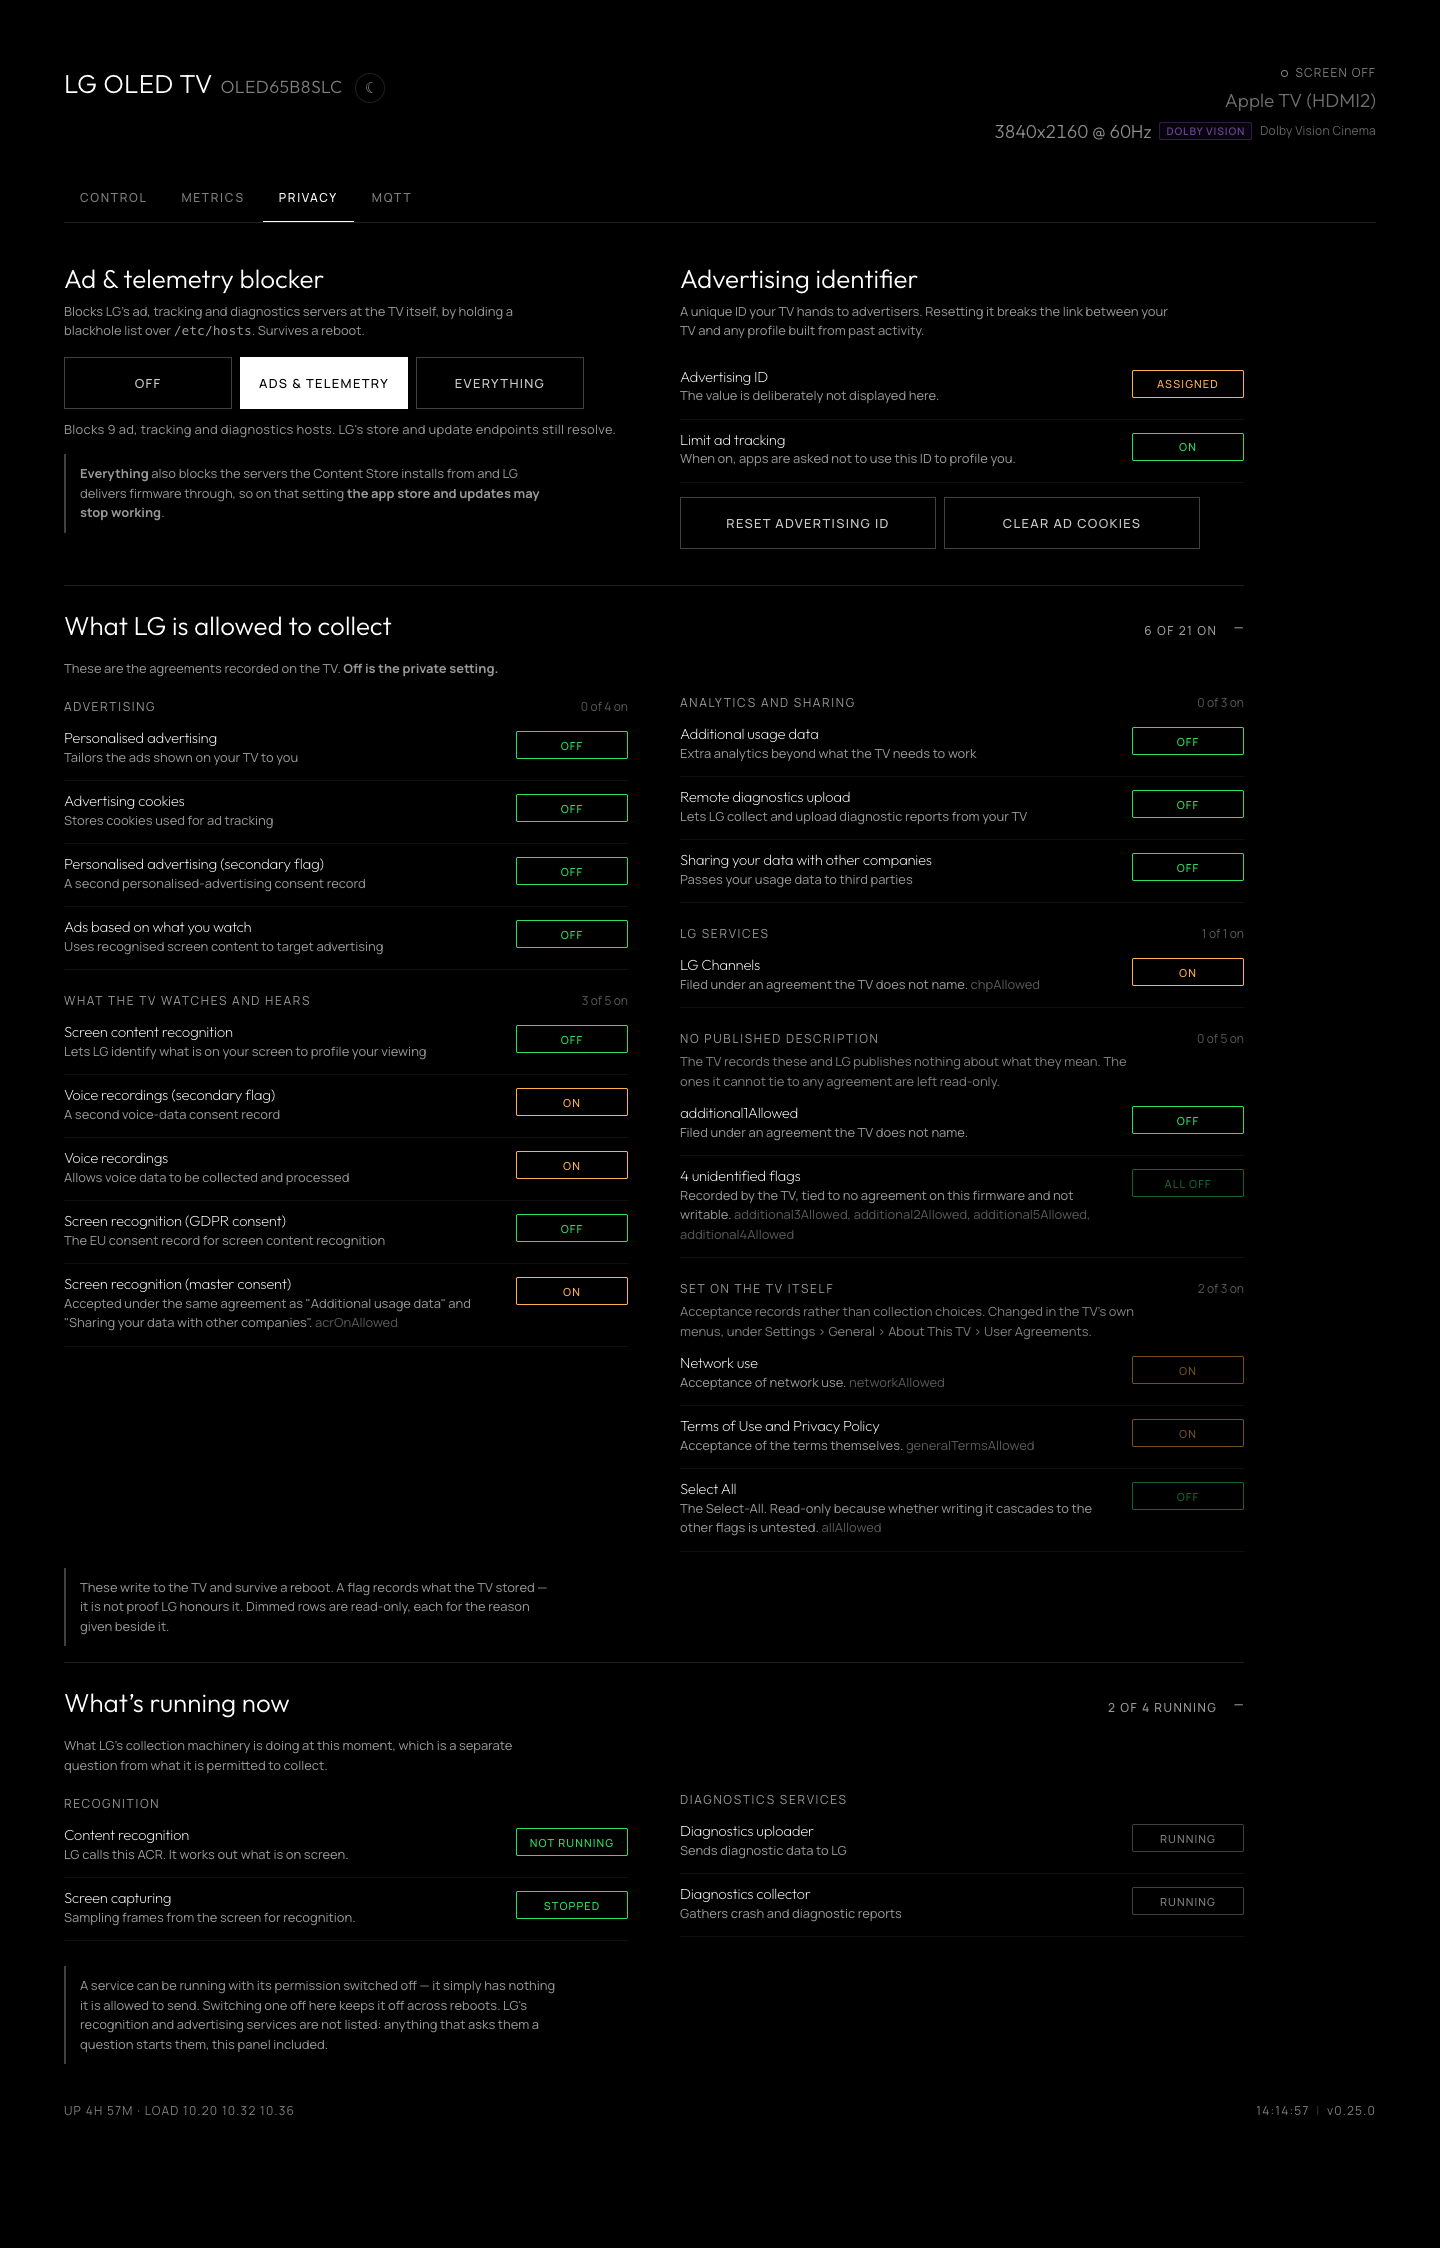
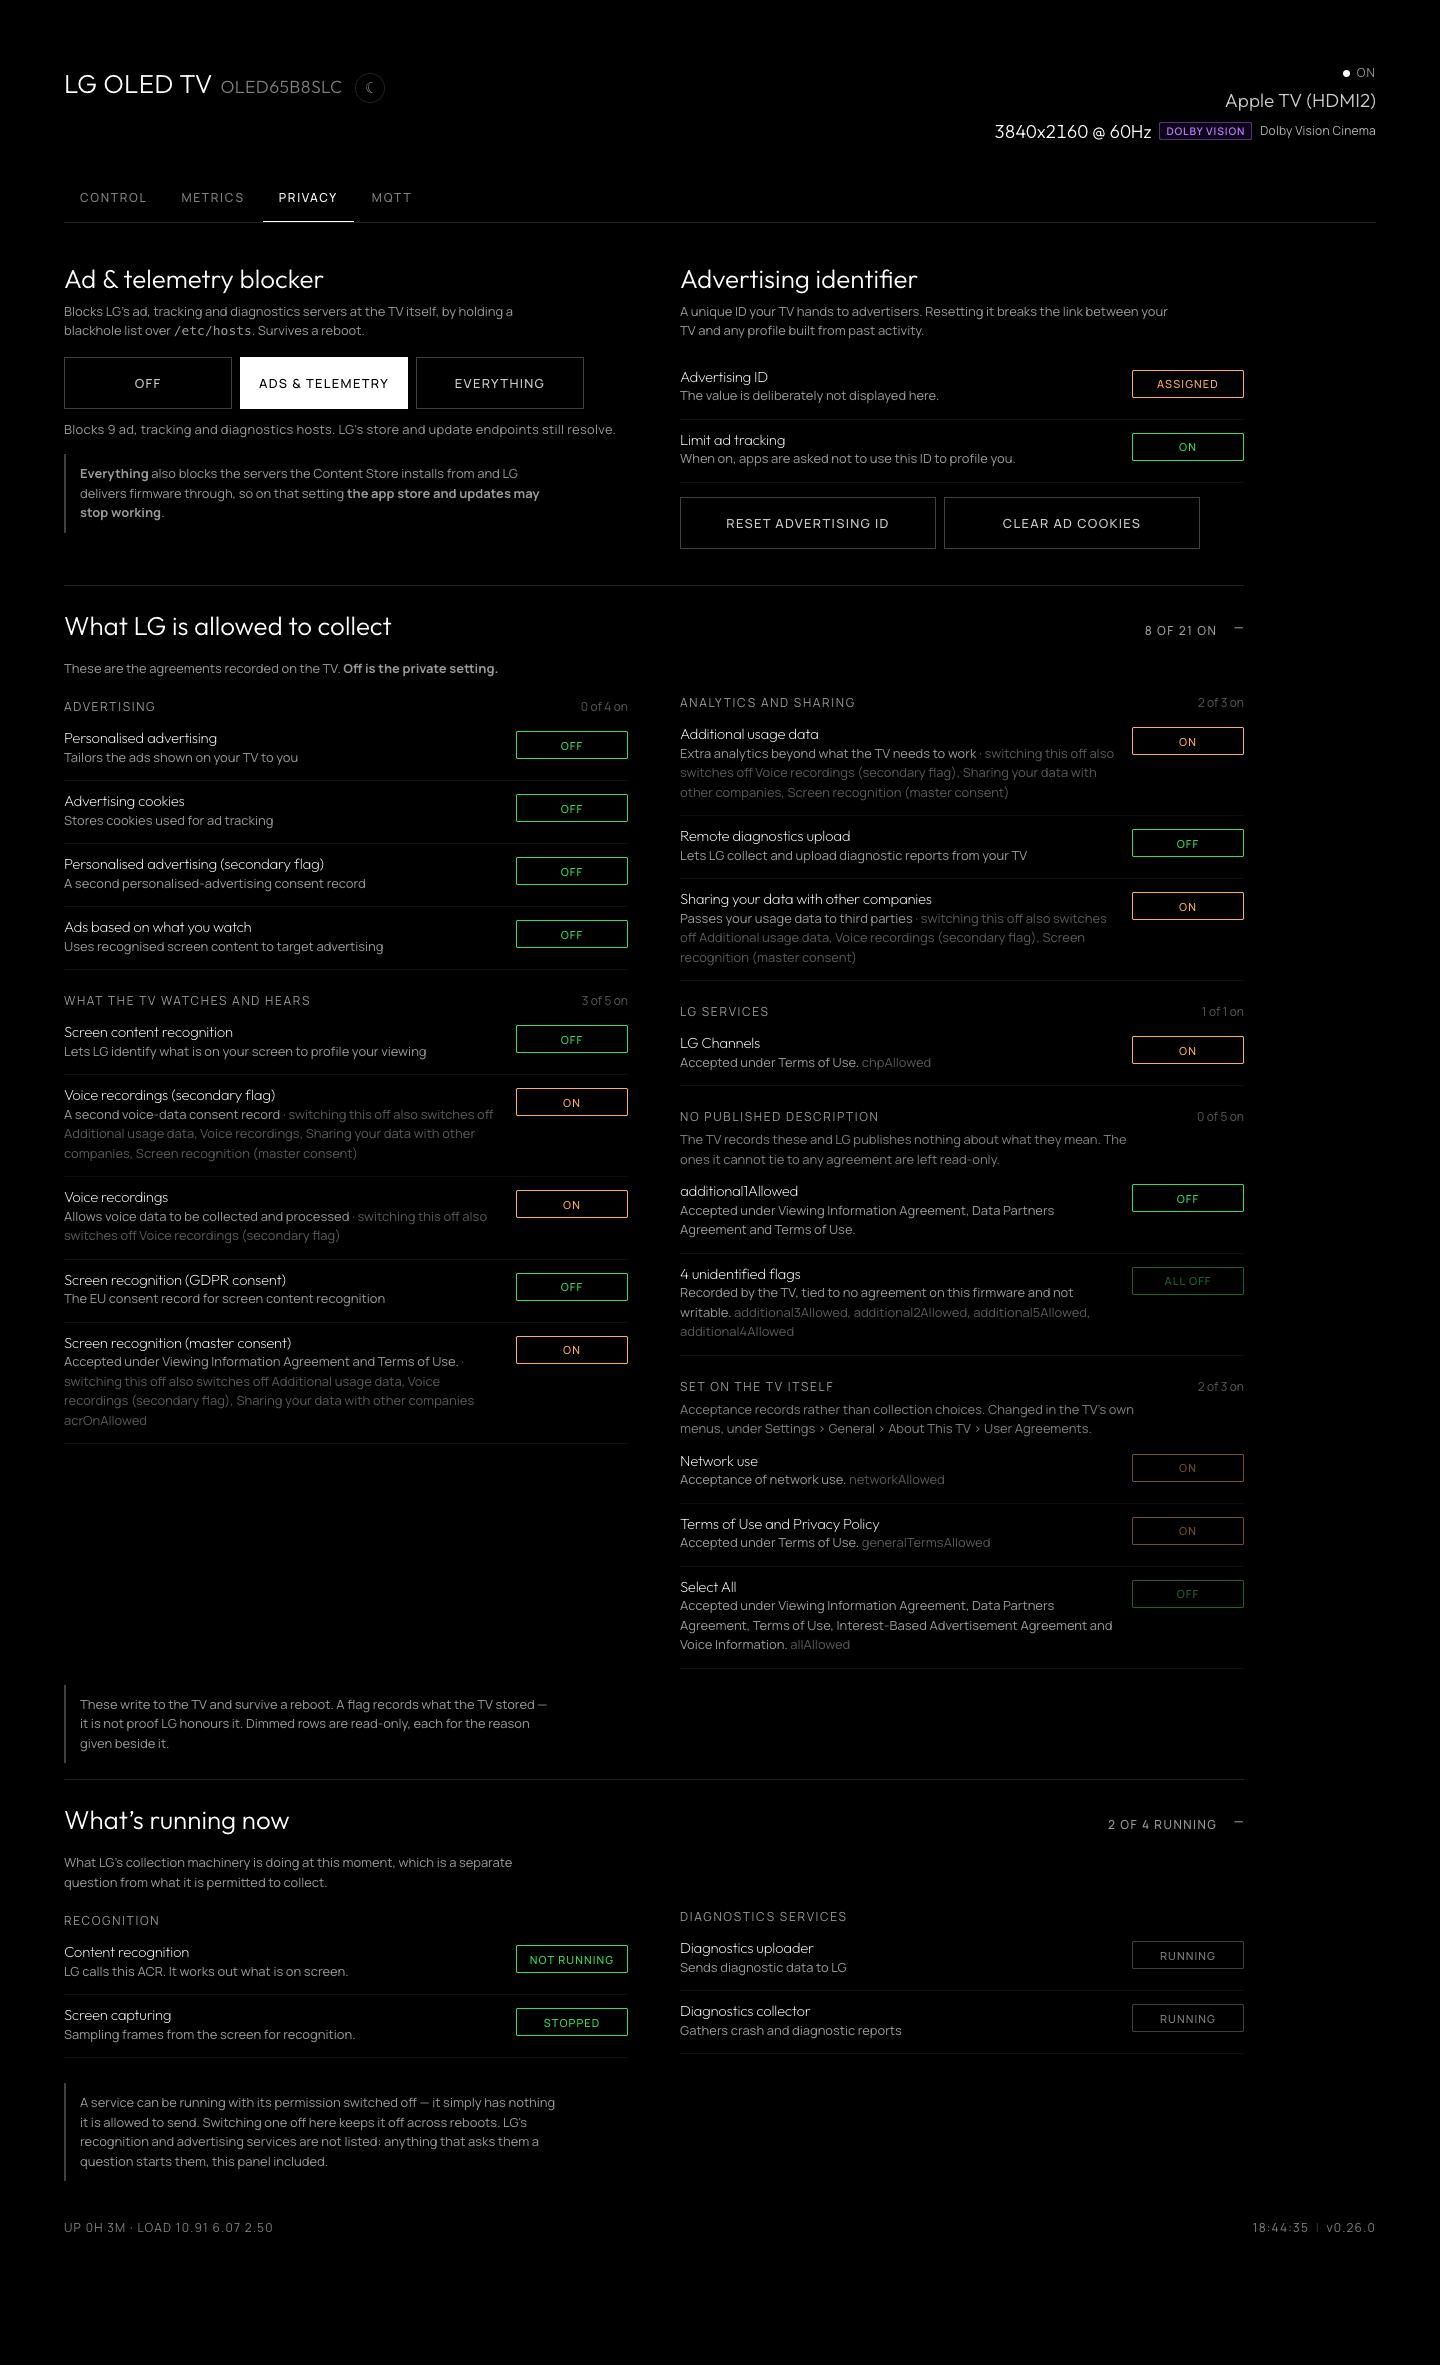
Move the agreement documents with the flag (#71)
* Move the agreement documents with the flag

eulaStatus is the output, not the record. A C8 on webOS 4.4.0 rebuilds every
flag from the accepted documents at boot, so a flag written on its own reverts
there; a B8 on 4.4.3 does not rebuild, which is why writing flags alone looked
like it worked and left the two records disagreeing - on this B8, ten of twelve
mapped flags matched their documents and the two that did not were the two the
panel had written. Diagnosed in #61.

A write now moves both. Turning a flag on accepts the documents it needs;
turning it off withdraws those no flag that stays on requires, and any flag
that needed one goes off with it - which is what the rebuilding firmware does
at boot anyway. Nothing is ever switched on as a side effect: a set whose flags
were written before this existed has documents saying yes under flags saying
no, and reconciling upwards would turn collection back on behind the reader.

A document needed by a flag that cannot be switched off is never withdrawn, so
Terms of Use survives however the rest are set.

The same record names the documents, which is the only place on the set that
does. "Filed under an agreement the TV does not name" now reads "Accepted under
the Viewing Information Agreement and Terms of Use", and the rows that move
together say so before they are clicked.

* Refresh the privacy screenshot, and bump to 0.26.0

---------

diff --git a/server/tvweb.js b/server/tvweb.js
@@ -27,7 +27,7 @@ var zlib = require('zlib');
  * a link to /releases/tag/v<version>, so a value with no tag behind it gives a
  * 404 rather than a wrong page.
  */
-var TVWEB_VERSION = '0.25.0';
+var TVWEB_VERSION = '0.26.0';
 
 // ---------------------------------------------------------------- config
 var CONFIG = {
@@ -1875,6 +1875,137 @@ function loadConsentGroups() {
   return consentGroups;
 }
 
+/*
+ * The agreement documents behind the flags, read from the settings service.
+ *
+ * eulaStatus is the output: a C8 on 4.4.0 rebuilds every flag from the accepted
+ * documents at boot, so a flag written on its own reverts there. A B8 on 4.4.3
+ * does not rebuild, which is why writing flags alone appeared to work and left
+ * the two records disagreeing. Writing both keeps them saying the same thing on
+ * either firmware. Reported in #61.
+ *
+ * It also carries the titles - "S_ADG" is "Viewing Information Agreement" -
+ * which is the only place on the set that names them. The file that caches this
+ * does not exist on webOS 9, so it is read from the service.
+ */
+function readConsentDocs(cb) {
+  luna('com.webos.settingsservice/getSystemSettings', { keys: ['eulaInfoNetwork'] }, function (r) {
+    var eln = r && r.settings && r.settings.eulaInfoNetwork;
+    cb(eln && Array.isArray(eln.eulaList) ? eln : null);
+  });
+}
+
+function acceptedSet(eln) {
+  var out = {};
+  for (var i = 0; i < eln.eulaList.length; i++) {
+    if (eln.eulaList[i].accepted) out[eln.eulaList[i].id] = true;
+  }
+  return out;
+}
+
+function docsSatisfied(need, accepted) {
+  for (var i = 0; i < need.length; i++) if (!accepted[need[i]]) return false;
+  return need.length > 0;
+}
+
+/*
+ * What the TV would hold after this change. The documents move first and every
+ * mapped flag is then derived from them, which is exactly what the rebuilding
+ * firmware does at boot - done here so both firmwares agree immediately.
+ *
+ * A document needed by a flag that cannot be switched off is never withdrawn:
+ * Terms of Use sits under nearly every group, and dropping it would withdraw
+ * the lot.
+ */
+function planConsent(key, on, flags, eln) {
+  var groups = loadConsentGroups();
+  var accepted = acceptedSet(eln);
+  var need = groups[key] || [];
+  var i, k;
+
+  if (on) {
+    for (i = 0; i < need.length; i++) accepted[need[i]] = true;
+  } else {
+    var protectedDocs = {};
+    for (k in groups) {
+      if (!groups.hasOwnProperty(k)) continue;
+      if (!CONSENT_LOCKED[k] || !flags[k]) continue;
+      for (i = 0; i < groups[k].length; i++) protectedDocs[groups[k][i]] = true;
+    }
+    for (i = 0; i < need.length; i++) {
+      if (!protectedDocs[need[i]]) delete accepted[need[i]];
+    }
+  }
+
+  var nextFlags = {}, changed = [];
+  for (k in flags) if (flags.hasOwnProperty(k)) nextFlags[k] = flags[k];
+  for (k in groups) {
+    if (!groups.hasOwnProperty(k) || !nextFlags.hasOwnProperty(k)) continue;
+    if (CONSENT_LOCKED[k]) continue;
+    /*
+     * Downward only. A flag whose agreement has just been withdrawn has to go
+     * off with it, but nothing is ever switched on as a side effect: a set
+     * whose flags were written directly before this existed has documents
+     * saying yes under flags saying no, and reconciling that upwards would
+     * turn collection back on behind the reader.
+     */
+    if (nextFlags[k] && !docsSatisfied(groups[k], accepted)) {
+      nextFlags[k] = false;
+      changed.push(k);
+    }
+  }
+  if (nextFlags[key] !== on) { nextFlags[key] = on; if (changed.indexOf(key) === -1) changed.push(key); }
+
+  var nextDocs = JSON.parse(JSON.stringify(eln));
+  for (i = 0; i < nextDocs.eulaList.length; i++) {
+    nextDocs.eulaList[i].accepted = !!accepted[nextDocs.eulaList[i].id];
+  }
+  return { flags: nextFlags, docs: nextDocs, changed: changed };
+}
+
+/*
+ * Name the documents a row depends on, and the rows that move with it. A flag
+ * cannot be off while an agreement it shares is accepted, so the panel says so
+ * before the click rather than surprising the reader afterwards.
+ */
+function annotateConsent(consent, eln) {
+  if (!consent || !eln) return;
+  var titles = {}, i;
+  for (i = 0; i < eln.eulaList.length; i++) {
+    if (eln.eulaList[i].title) titles[eln.eulaList[i].id] = eln.eulaList[i].title;
+  }
+  var groups = loadConsentGroups();
+  var rows = (consent.known || []).concat(consent.other || []);
+  var flags = {}, byKey = {};
+  for (i = 0; i < rows.length; i++) { flags[rows[i].key] = rows[i].enabled; byKey[rows[i].key] = rows[i]; }
+
+  for (i = 0; i < rows.length; i++) {
+    var row = rows[i], need = groups[row.key];
+    if (!need) continue;
+    var names = [];
+    for (var j = 0; j < need.length; j++) if (titles[need[j]]) names.push(titles[need[j]]);
+    if (names.length) {
+      row.agreements = names;
+      // Now that the documents can be named, an undescribed flag can say what
+      // it is filed under instead of that the TV would not say.
+      if (!CONSENT_LABELS[row.key]) {
+        row.detail = 'Accepted under ' + (names.length > 1
+          ? names.slice(0, -1).join(', ') + ' and ' + names[names.length - 1]
+          : names[0]) + '.';
+      }
+    }
+    if (!row.settable || !row.enabled) continue;
+    var plan = planConsent(row.key, false, flags, eln);
+    var also = [];
+    for (var c = 0; c < plan.changed.length; c++) {
+      var k = plan.changed[c];
+      if (k === row.key || !byKey[k]) continue;
+      also.push(byKey[k].label || k);
+    }
+    if (also.length) row.sharesWith = also;
+  }
+}
+
 function consentSettable(key) {
   if (CONSENT_LOCKED[key]) return false;
   if (CONSENT_LABELS[key]) return true;
@@ -2164,6 +2295,12 @@ function collectPrivacy(cb) {
    */
   runningDaemons(function (daemons) {
     out.daemons = daemons;
+    // Titles and the sharing map come from the same record the writes move, so
+    // the rest of the payload waits on it rather than racing it.
+    lunaCached('com.webos.settingsservice/getSystemSettings', { keys: ['eulaInfoNetwork'] }, 60000,
+               function (elnRes) {
+    var eln = elnRes && elnRes.settings && elnRes.settings.eulaInfoNetwork;
+    if (eln && Array.isArray(eln.eulaList)) annotateConsent(out.consent, eln);
     luna('com.webos.service.acr/getACRSolutionStatus', {}, function (acr) {
       // `false` here means the recognition engine is not running at all.
       out.acr = {
@@ -2211,6 +2348,7 @@ function collectPrivacy(cb) {
           cb(out);
         });
       });
+    });
     });
   });
 }
@@ -2400,54 +2538,39 @@ function doControl(action, value, cb) {
         var cur = r && r.settings && r.settings.eulaStatus;
         if (!cur || typeof cur !== 'object') return cb({ ok: false, error: 'could not read the consent flags' });
         if (!cur.hasOwnProperty(ckey)) return cb({ ok: false, error: 'no such consent flag: ' + ckey });
-        if (cur[ckey] === cOn) {
-          cachedPrivacy = null;
-          return cb({ ok: true, key: ckey, enabled: cOn, changed: false });
-        }
-        var next = {};
-        for (var ek in cur) if (cur.hasOwnProperty(ek)) next[ek] = cur[ek];
-        next[ckey] = cOn;
-        luna('com.webos.settingsservice/setSystemSettings', { settings: { eulaStatus: next } }, function (w) {
-          cachedPrivacy = null;
-          if (!(w && w.returnValue)) {
-            console.log('consent: ' + ckey + ' ' + cur[ckey] + ' -> ' + cOn + ' (refused)');
-            return cb({ ok: false, error: (w && w.errorText) || 'the TV refused the change' });
-          }
-          /*
-           * Read it back. returnValue means the service took the call, not that
-           * it stored anything - writing /var/luna/preferences/eula directly
-           * looks exactly as successful and reverts at boot. On firmware this
-           * has never run against, that difference is the whole question, and a
-           * toggle that reports success without checking is the failure this
-           * panel exists to avoid.
-           */
-          luna('com.webos.settingsservice/getSystemSettings', { keys: ['eulaStatus'] }, function (v) {
-            var now = v && v.settings && v.settings.eulaStatus;
-            var applied = !!(now && now[ckey] === cOn);
-            // Consent records: without a line here there is no telling
-            // afterwards whether a change came from the panel or the TV.
-            console.log('consent: ' + ckey + ' ' + cur[ckey] + ' -> ' + cOn +
-                        (applied ? '' : ' (accepted but not applied)'));
+
+        readConsentDocs(function (eln) {
+          if (!eln) return cb({ ok: false, error: 'could not read the agreement documents' });
+          var plan = planConsent(ckey, cOn, cur, eln);
+          if (!plan.changed.length) {
             cachedPrivacy = null;
-            cb(applied
-              ? { ok: true, key: ckey, enabled: cOn, changed: true }
-              : { ok: false, error: 'the TV accepted the change without applying it' });
+            return cb({ ok: true, key: ckey, enabled: cOn, changed: false });
+          }
+          luna('com.webos.settingsservice/setSystemSettings',
+               { settings: { eulaInfoNetwork: plan.docs, eulaStatus: plan.flags } }, function (w) {
+            cachedPrivacy = null;
+            if (!(w && w.returnValue)) {
+              console.log('consent: ' + ckey + ' -> ' + cOn + ' (refused)');
+              return cb({ ok: false, error: (w && w.errorText) || 'the TV refused the change' });
+            }
+            /*
+             * Read back. returnValue means the service took the call, not that
+             * it stored anything - writing the file directly looks exactly as
+             * successful and reverts at boot.
+             */
+            luna('com.webos.settingsservice/getSystemSettings', { keys: ['eulaStatus'] }, function (v) {
+              var now = v && v.settings && v.settings.eulaStatus;
+              var applied = !!(now && now[ckey] === cOn);
+              console.log('consent: ' + ckey + ' ' + cur[ckey] + ' -> ' + cOn +
+                          (plan.changed.length > 1 ? ' (with ' + (plan.changed.length - 1) + ' sharing the agreement)' : '') +
+                          (applied ? '' : ' (accepted but not applied)'));
+              cb(applied
+                ? { ok: true, key: ckey, enabled: cOn, changed: true, alsoChanged: plan.changed.length - 1 }
+                : { ok: false, error: 'the TV accepted the change without applying it' });
+            });
           });
         });
       });
-
-    /*
-     * Hold an LG daemon down, or let it back up. Restricted to the two upstart
-     * supervises: this is an initctl target arriving over HTTP, and the
-     * bus-activated services cannot be held down anyway.
-     */
-    case 'service':
-      var svcName = (value && value.name) ? String(value.name) : '';
-      var svcOn = !!(value && (value.enabled === true || value.enabled === 'true'));
-      if (!SERVICE_CONTROLLABLE[svcName]) {
-        return cb({ ok: false, error: svcName ? svcName + ' is not controllable' : 'no service named' });
-      }
-      return setServiceEnabled(svcName, svcOn, cb);
 
     case 'clearAdCookies':
       return luna('com.webos.service.admanager/inactivateCookies', {}, function (r) {

diff --git a/server/assets/ui.html b/server/assets/ui.html
@@ -1699,12 +1699,18 @@ async function loadPrivacy() {
     const cw = !!d.consentWritable;
     // Labelled rows show their label; the rest are named by their raw key,
     // which is all the name they have.
-    const rows = c.known.map(f => ({ ...f, name: f.label, detail: esc(f.detail || '') }))
+    // A flag cannot be off while an agreement it shares stays accepted, so the
+    // rows it takes with it are named before the click, not after.
+    const shared = f => f.sharesWith && f.sharesWith.length
+      ? ` <span class="k">&middot; switching this off also switches off ${esc(f.sharesWith.join(', '))}</span>`
+      : '';
+    const rows = c.known.map(f => ({ ...f, name: f.label, detail: esc(f.detail || '') + shared(f) }))
       .concat((c.other || []).map(f => ({
         ...f,
         name: f.label || f.key,
         // A named row still shows its key; an unnamed one is already titled by it.
-        detail: esc(f.detail || '') + (f.label ? ` <span class="k">${esc(f.key)}</span>` : '')
+        detail: esc(f.detail || '') + shared(f) +
+                (f.label ? ` <span class="k">${esc(f.key)}</span>` : '')
       })));
     let html = '';
     for (const [id, title, note] of (d.consentGroups || [['unknown', '']])) {
